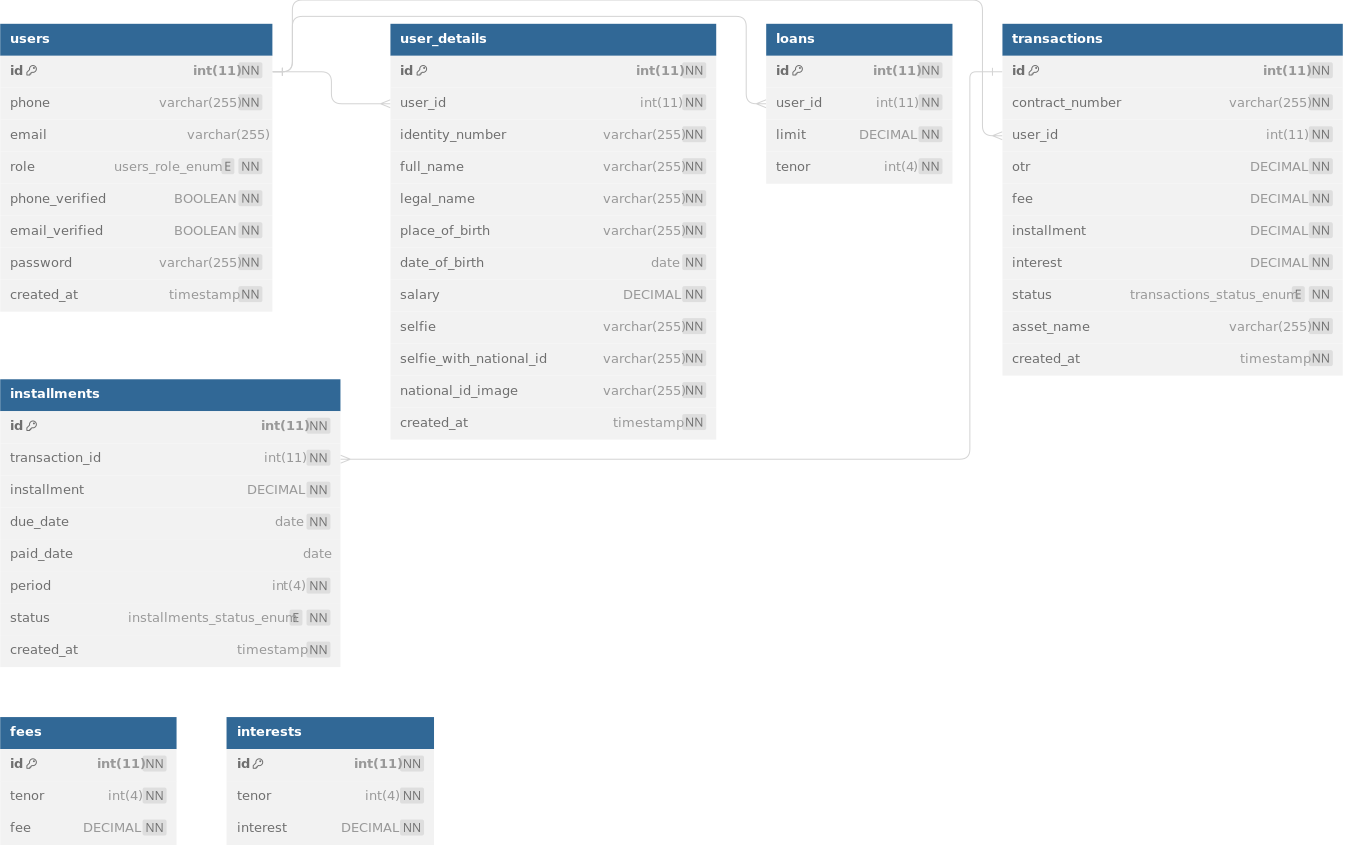
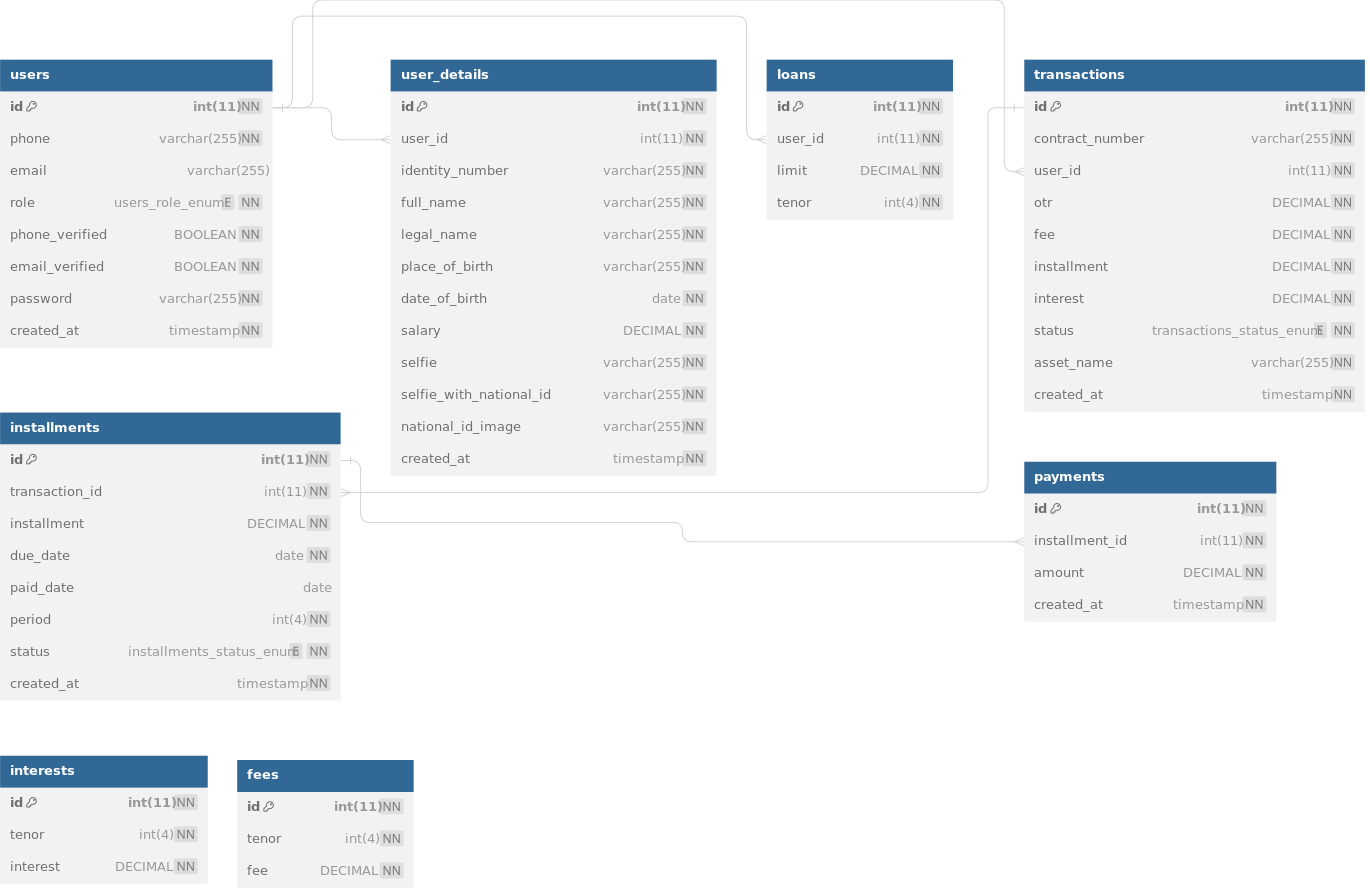
finishing trx

diff --git a/services/installment_service.go b/services/installment_service.go
@@ -1,6 +1,9 @@
 package services
 
 import (
+	"context"
+	"database/sql"
+	"log"
 	"time"
 
 	"kplus.com/dto"
@@ -12,24 +15,67 @@ type InstallmentService struct {
 }
 
 func (i InstallmentService) PayInstallment(data dto.PayInstallmentDto) error {
+	trx, err := i.db.BeginTx(context.Background(), &sql.TxOptions{
+		Isolation: sql.LevelSerializable,
+	})
+	if err != nil {
+		return err
+	}
 	var id int
 	var amount float64
 	var period int
-	if err := i.db.QueryRow(`
-		SELECT id, installment, period FROM installments
-		WHERE id = ?`, data.ID).Scan(&id, &amount, &period); err != nil {
+	var transactionID int
+
+	if err := trx.QueryRow(`
+		SELECT id, installment, transaction_id, period FROM installments
+		WHERE id = ?`, data.ID).Scan(&id, &amount, &transactionID, &period); err != nil {
+		trx.Rollback()
 		return err
 	}
-	if amount != data.Amount {
-		return nil
+	status := "unpaid"
+	if amount == data.Amount && period == data.Period {
+		status = "paid"
 	}
-	if period != data.Period {
-		return nil
+	if _, err := trx.Exec(`UPDATE installments
+		SET status = ?, paid_date = ?
+		WHERE id = ?`, status, time.Now(), data.ID); err != nil {
+		trx.Rollback()
+		return err
 	}
-	if err := i.db.QueryRow(`
+	if _, err := i.db.Exec(`
 		UPDATE installments
 		SET status = ?, paid_date = ?
-		WHERE id = ?`, "paid", time.Now(), data.ID).Scan(&id); err != nil {
+		WHERE id = ?`, status, time.Now(), data.ID); err != nil {
+		trx.Rollback()
+		return err
+	}
+	var userID int
+	var otr float64
+	var tenor int
+	if err := i.db.QueryRow(`SELECT user_id, otr, tenor FROM transactions WHERE id = ?`, transactionID).Scan(&userID, &otr, &tenor); err != nil {
+		trx.Rollback()
+		return err
+	}
+	if _, err := i.db.Exec(`INSERT INTO payments(installment_id, user_id, amount) VALUES (?, ?, ?)`, data.ID, userID, data.Amount); err != nil {
+		trx.Rollback()
+		return err
+	}
+
+	if err := i.increaseUserLoanLimit(userID, amount, tenor); err != nil {
+		trx.Rollback()
+		return err
+	}
+	return trx.Commit()
+}
+
+func (i InstallmentService) increaseUserLoanLimit(userID int, total float64, tenor int) error {
+	var currentLimit float64
+	if err := i.db.QueryRow("SELECT `limit` FROM loans WHERE user_id = ? AND tenor = ?", userID, tenor).Scan(&currentLimit); err != nil {
+		log.Println(err.Error())
+		return err
+	}
+	_, err := i.db.Exec("UPDATE loans SET `limit` = `limit` + (`limit` * ?) WHERE user_id = ?", (total / currentLimit), userID)
+	if err != nil {
 		return err
 	}
 	return nil

diff --git a/services/transaction_service.go b/services/transaction_service.go
@@ -148,13 +148,23 @@ func (t TransactionService) performTransaction(data *dto.CreateTransactionDto, u
 		return errors.New("tenor not found")
 	}
 
+	currentLimit := 0.0
+	if err := t.db.QueryRow("SELECT `limit` FROM loans WHERE user_id = ? AND tenor = ?", userId, data.Tenor).Scan(&currentLimit); err != nil {
+		trx.Rollback()
+		return err
+	}
+	if currentLimit < data.Amount {
+		trx.Rollback()
+		return errors.New("loan limit exceeded")
+	}
+
 	installment := t.calculateInterset(data.Amount, interest, data.Tenor)
 	total := installment + fee
 	r, err := trx.ExecContext(context.Background(), `
     INSERT INTO transactions
-    (contract_number, user_id, otr, fee, installment, interest, status, asset_name)
+    (contract_number, user_id, otr, fee, installment, interest, status, asset_name, tenor)
     VALUES
-    (?, ?, ?, ?, ?, ?, ?, ?)`,
+    (?, ?, ?, ?, ?, ?, ?, ?, ?)`,
 		contractNumber,
 		userId,
 		data.Amount,
@@ -163,6 +173,7 @@ func (t TransactionService) performTransaction(data *dto.CreateTransactionDto, u
 		interest,
 		"pending",
 		data.AssetName,
+		data.Tenor,
 	)
 	if err != nil {
 		trx.Rollback()

diff --git a/utils/request_handler.go b/utils/request_handler.go
@@ -15,7 +15,7 @@ func NewRequestHandler() RequestHandler {
 
 type ResponseOk[T any] struct {
 	Message string `json:"message"`
-	Data    T      `json:"data"`
+	Data    T      `json:"data,omitempty"`
 	Total   *int64 `json:"total,omitempty"`
 }
 
